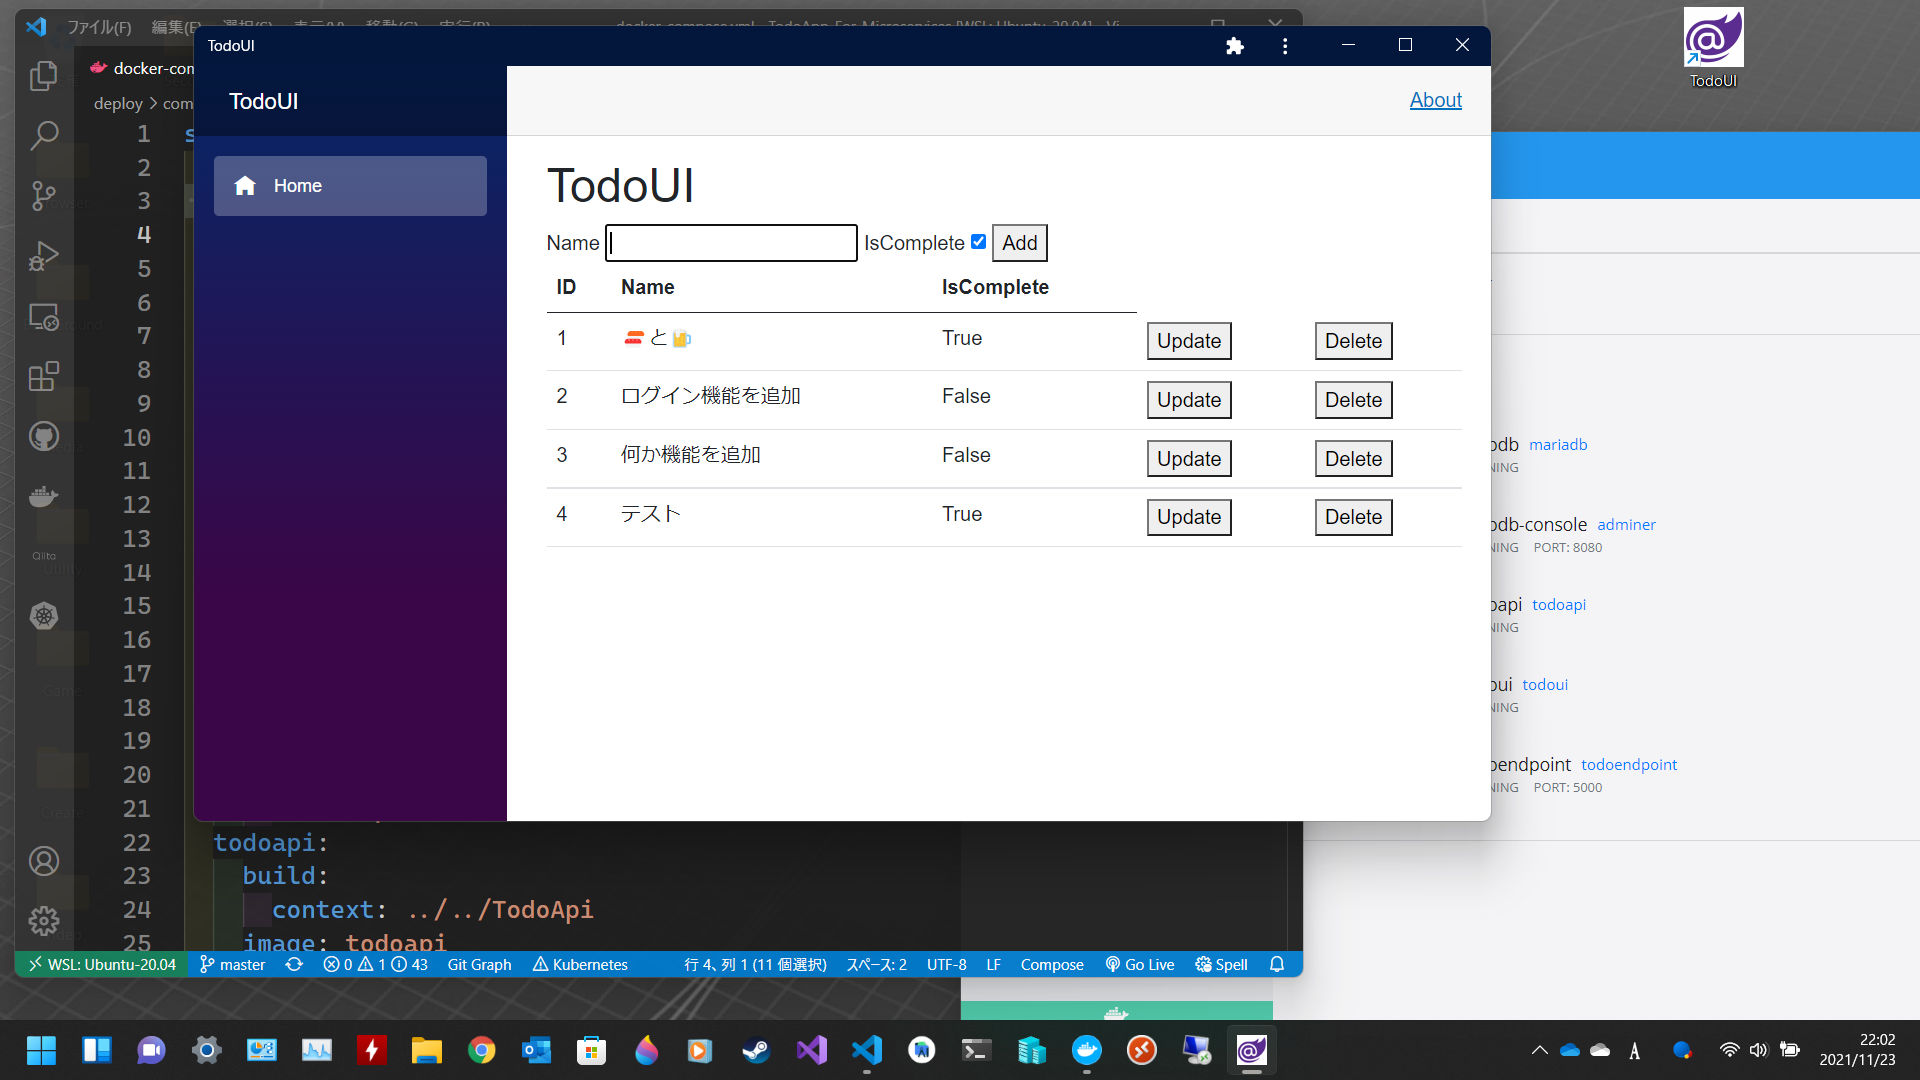
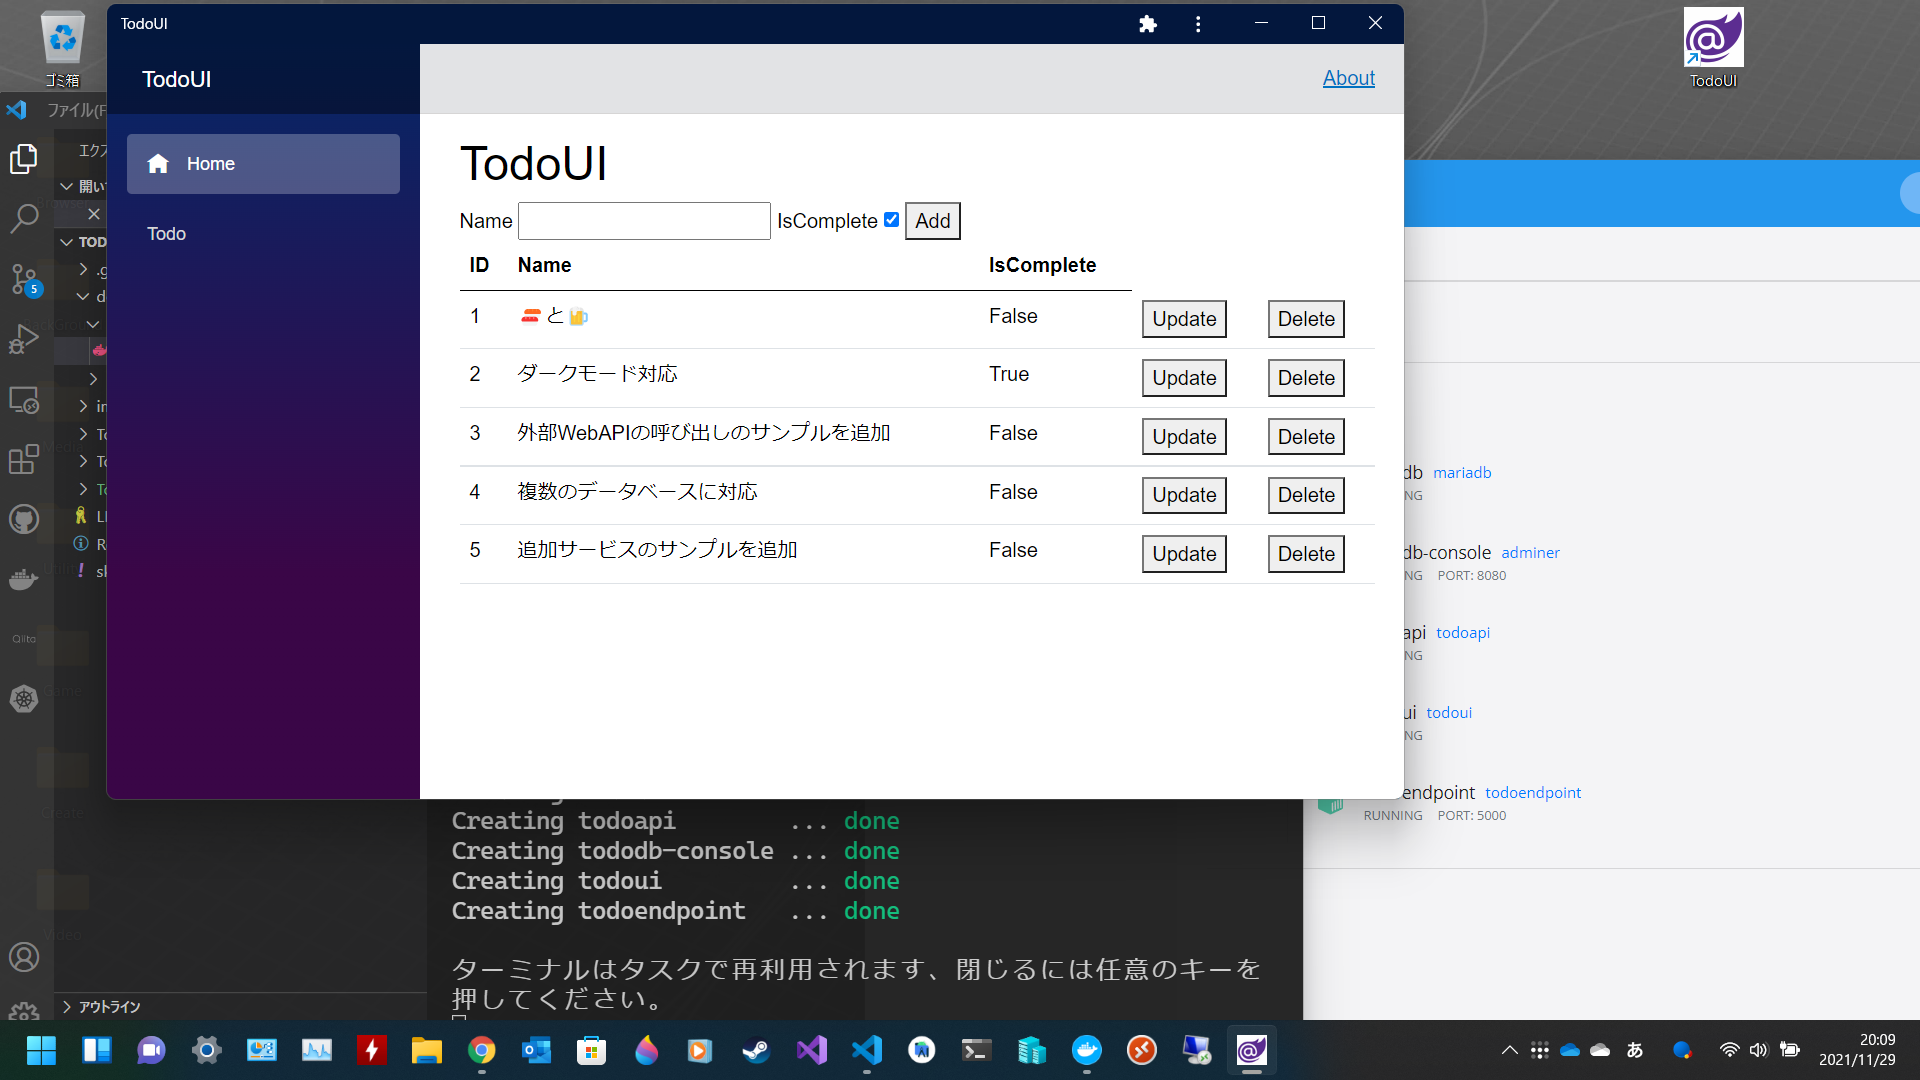
Dark Mode

Changed region(s): [[0.0, 0.0, 1.0, 0.9472], [0.7812, 0.9472, 0.8125, 0.9778]]

diff --git a/TodoUI/wwwroot/css/site.css b/TodoUI/wwwroot/css/site.css
@@ -1,5 +1,33 @@
 @import url('open-iconic/font/css/open-iconic-bootstrap.min.css');
 
+:root {
+    /* white */
+    --background: white;
+    --font-color: black;
+    --highlight: #f7f7f7;
+    --highlight-2: #e2e3e5;
+    --link: #0071c1;
+    --background-img: linear-gradient(180deg, rgb(5, 39, 103) 0%, #3a0647 70%);
+    --border-color: #1861ac;
+    --btn-font-color: #fff;
+    --btn-background-color: #1b6ec2;
+}
+
+@media (prefers-color-scheme: dark) {
+    :root {
+        /* dark-mode */
+        --background: black;
+        --font-color: white;
+        --highlight: black;
+        --highlight-2: rgb(41, 41, 41);
+        --link: #3ca4ff;
+        --background-img:  linear-gradient(180deg, rgb(1, 10, 26) 0%, rgb(15, 2, 19) 70%);
+        --border-color: #3ca4ff;
+        --btn-font-color: white;
+        --btn-background-color: black;
+    }
+}
+
 html, body {
     font-family: 'Helvetica Neue', Helvetica, Arial, sans-serif;
 }
@@ -9,7 +37,21 @@ h1:focus {
 }
 
 a, .btn-link {
-    color: #0071c1;
+    color: var(--link);
+}
+
+.alert-secondary {
+    background-color: var(--highlight-2);
+    color: var(--font-color);
+}
+
+.table {
+    color: var(--font-color);
+}
+
+body {
+    background: var(--background);
+    color: var(--font-color);
 }
 
 .btn-primary {

diff --git a/TodoUI/Shared/MainLayout.razor.css b/TodoUI/Shared/MainLayout.razor.css
@@ -9,11 +9,11 @@ main {
 }
 
 .sidebar {
-    background-image: linear-gradient(180deg, rgb(5, 39, 103) 0%, #3a0647 70%);
+    background-image: var(--background-img);
 }
 
 .top-row {
-    background-color: #f7f7f7;
+    background-color: var(--highlight-2);
     border-bottom: 1px solid #d6d5d5;
     justify-content: flex-end;
     height: 3.5rem;

diff --git a/TodoUI/Program.cs b/TodoUI/Program.cs
@@ -9,8 +9,8 @@ builder.Services.AddHttpClient();
 
 // Get URL Todo
 var config = new ConfigurationBuilder()
-    .AddJsonFile("./appsettings.json", optional: true)
-    .AddJsonFile("./appsettings.Development.json", optional: true)
+    .AddJsonFile("appsettings.json", optional: true)
+    .AddJsonFile("appsettings.Development.json", optional: true)
     .AddEnvironmentVariables()
     .Build();
 

diff --git a/Readme.md b/Readme.md
@@ -6,12 +6,14 @@ It was created for learning microservice architecture.
 
 ![TodoUI](./images/TodoUI.png)
 
+![TodoUI Dark](./images/TodoUI-Dark.png)
+
 ## Structure
 
 |           Name            |       Type        | Languages | Environment |   OS   |          Framework           | Description                                          | Dependences |
 | :-----------------------: | :---------------: | :-------: | :---------: | :----: | :--------------------------: | ---------------------------------------------------- | :---------: |
 |          TodoApi          |      WebAPI       |    C#     |   .NET 6    | alpine |    ASP.NET Core 6 WebAPI     | CRUD WebAPI For Todo. Requirements MariaDB or MySQL. |   TodoDB    |
-|          TodoUI           |       WebUI       |    C#     |   .NET 6    | alpine | ASP.NET Core 6 Blazor Server | WebUI For TodoApi. PWA Support (except offline)      |   TodoApi   |
+|          TodoUI           |       WebUI       |    C#     |   .NET 6    | alpine | ASP.NET Core 6 Blazor Server | WebUI For TodoApi. PWA Support. Dark-Mode Support     |   TodoApi   |
 |       TodoEndpoint        | External Endpoint |   ----    |    Nginx    | alpine |             ----             | Nginx Reverse Proxy/TodoApp Endpoint.                |   TodoUI    |
 |          TodoDB           |        DB         |   ----    |   MariaDB   | ubuntu |             ----             | DB For TodoApi.                                      |    ----     |
 | TodoDB-Console (Optional) | DB UI (Optional)  |   ----    |   adminer   | alpine |             ----             | TodoDB Optional UI                                   |   TodoDB    |
@@ -172,6 +174,9 @@ After opening, select `Reopen in Container` in the notification at the bottom ri
 | :-----: | :-------------------------------: | :---------------: | :-------------: | :------------: |
 |  urls   |           http://*:5000           | Internal Endpoint | TodoUI Endpoint |     Enable     |
 | todoapi | http://todoapi:5000/api/todoitems |        URL        |   TodoApi URL   |     Enable     |
+
+- PWA Support (Except offline, http configuration required except localhost)
+- Dark-Mode Support (Depends on device settings)
 
 ### TodoEndpoint
 
